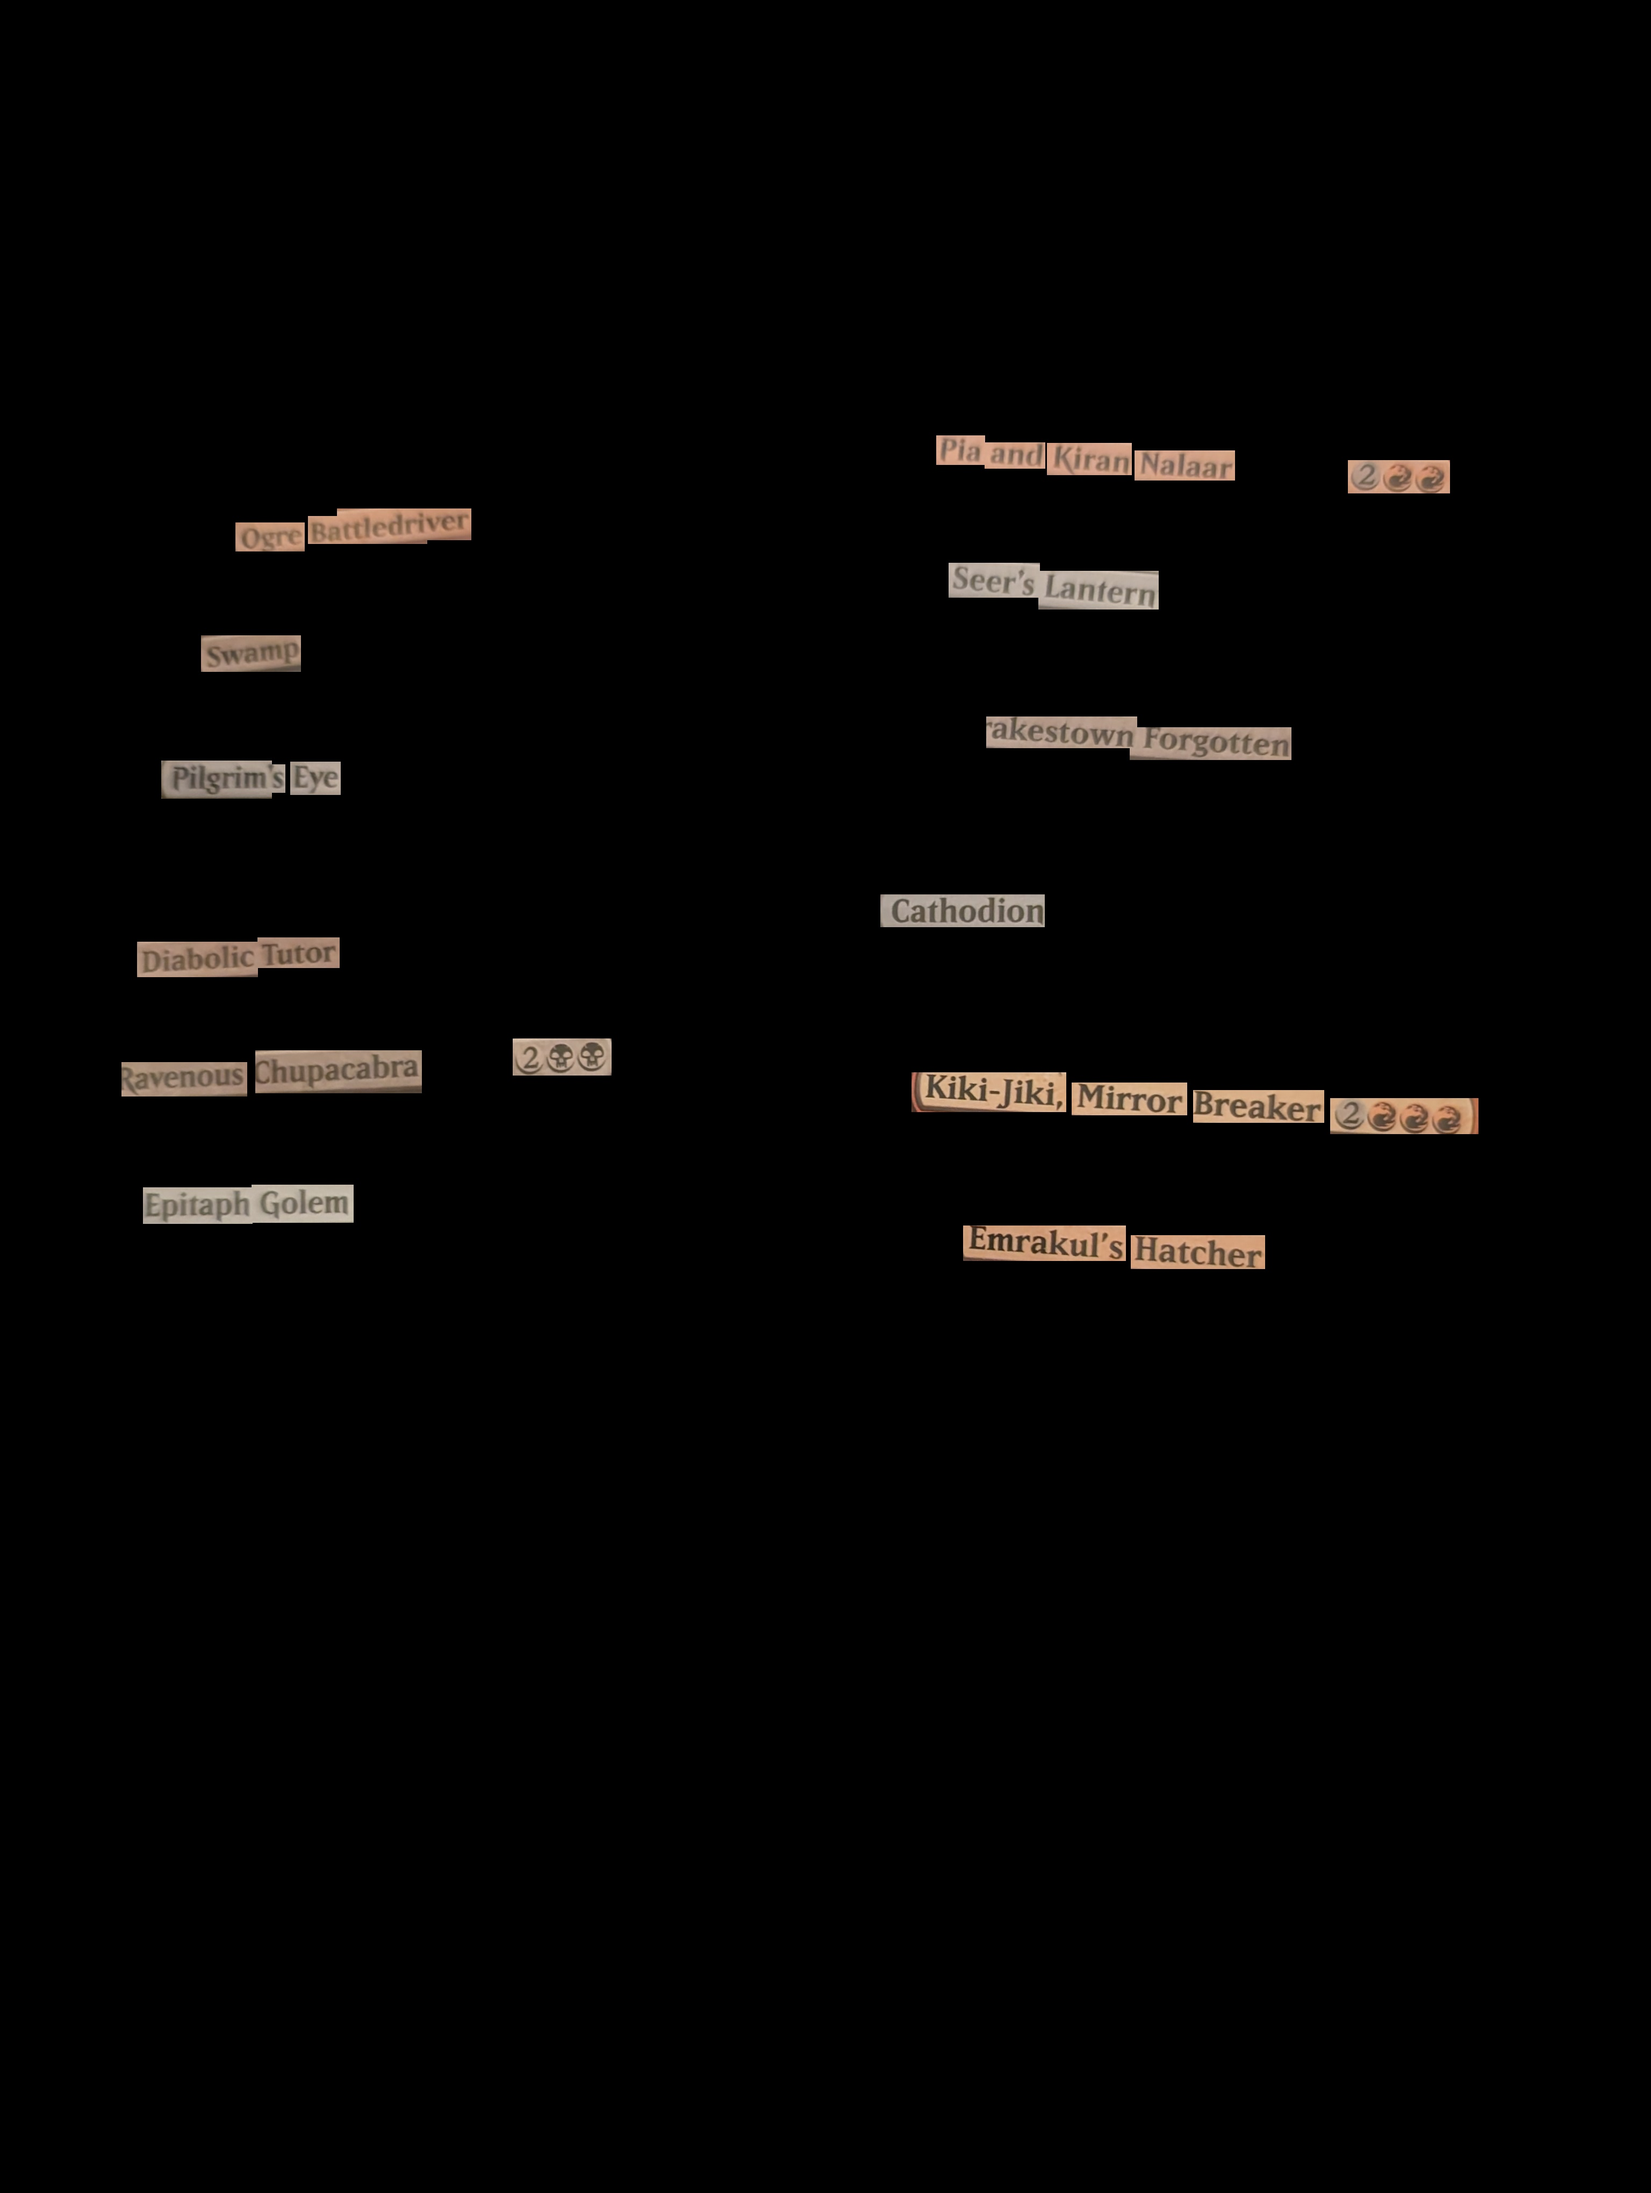
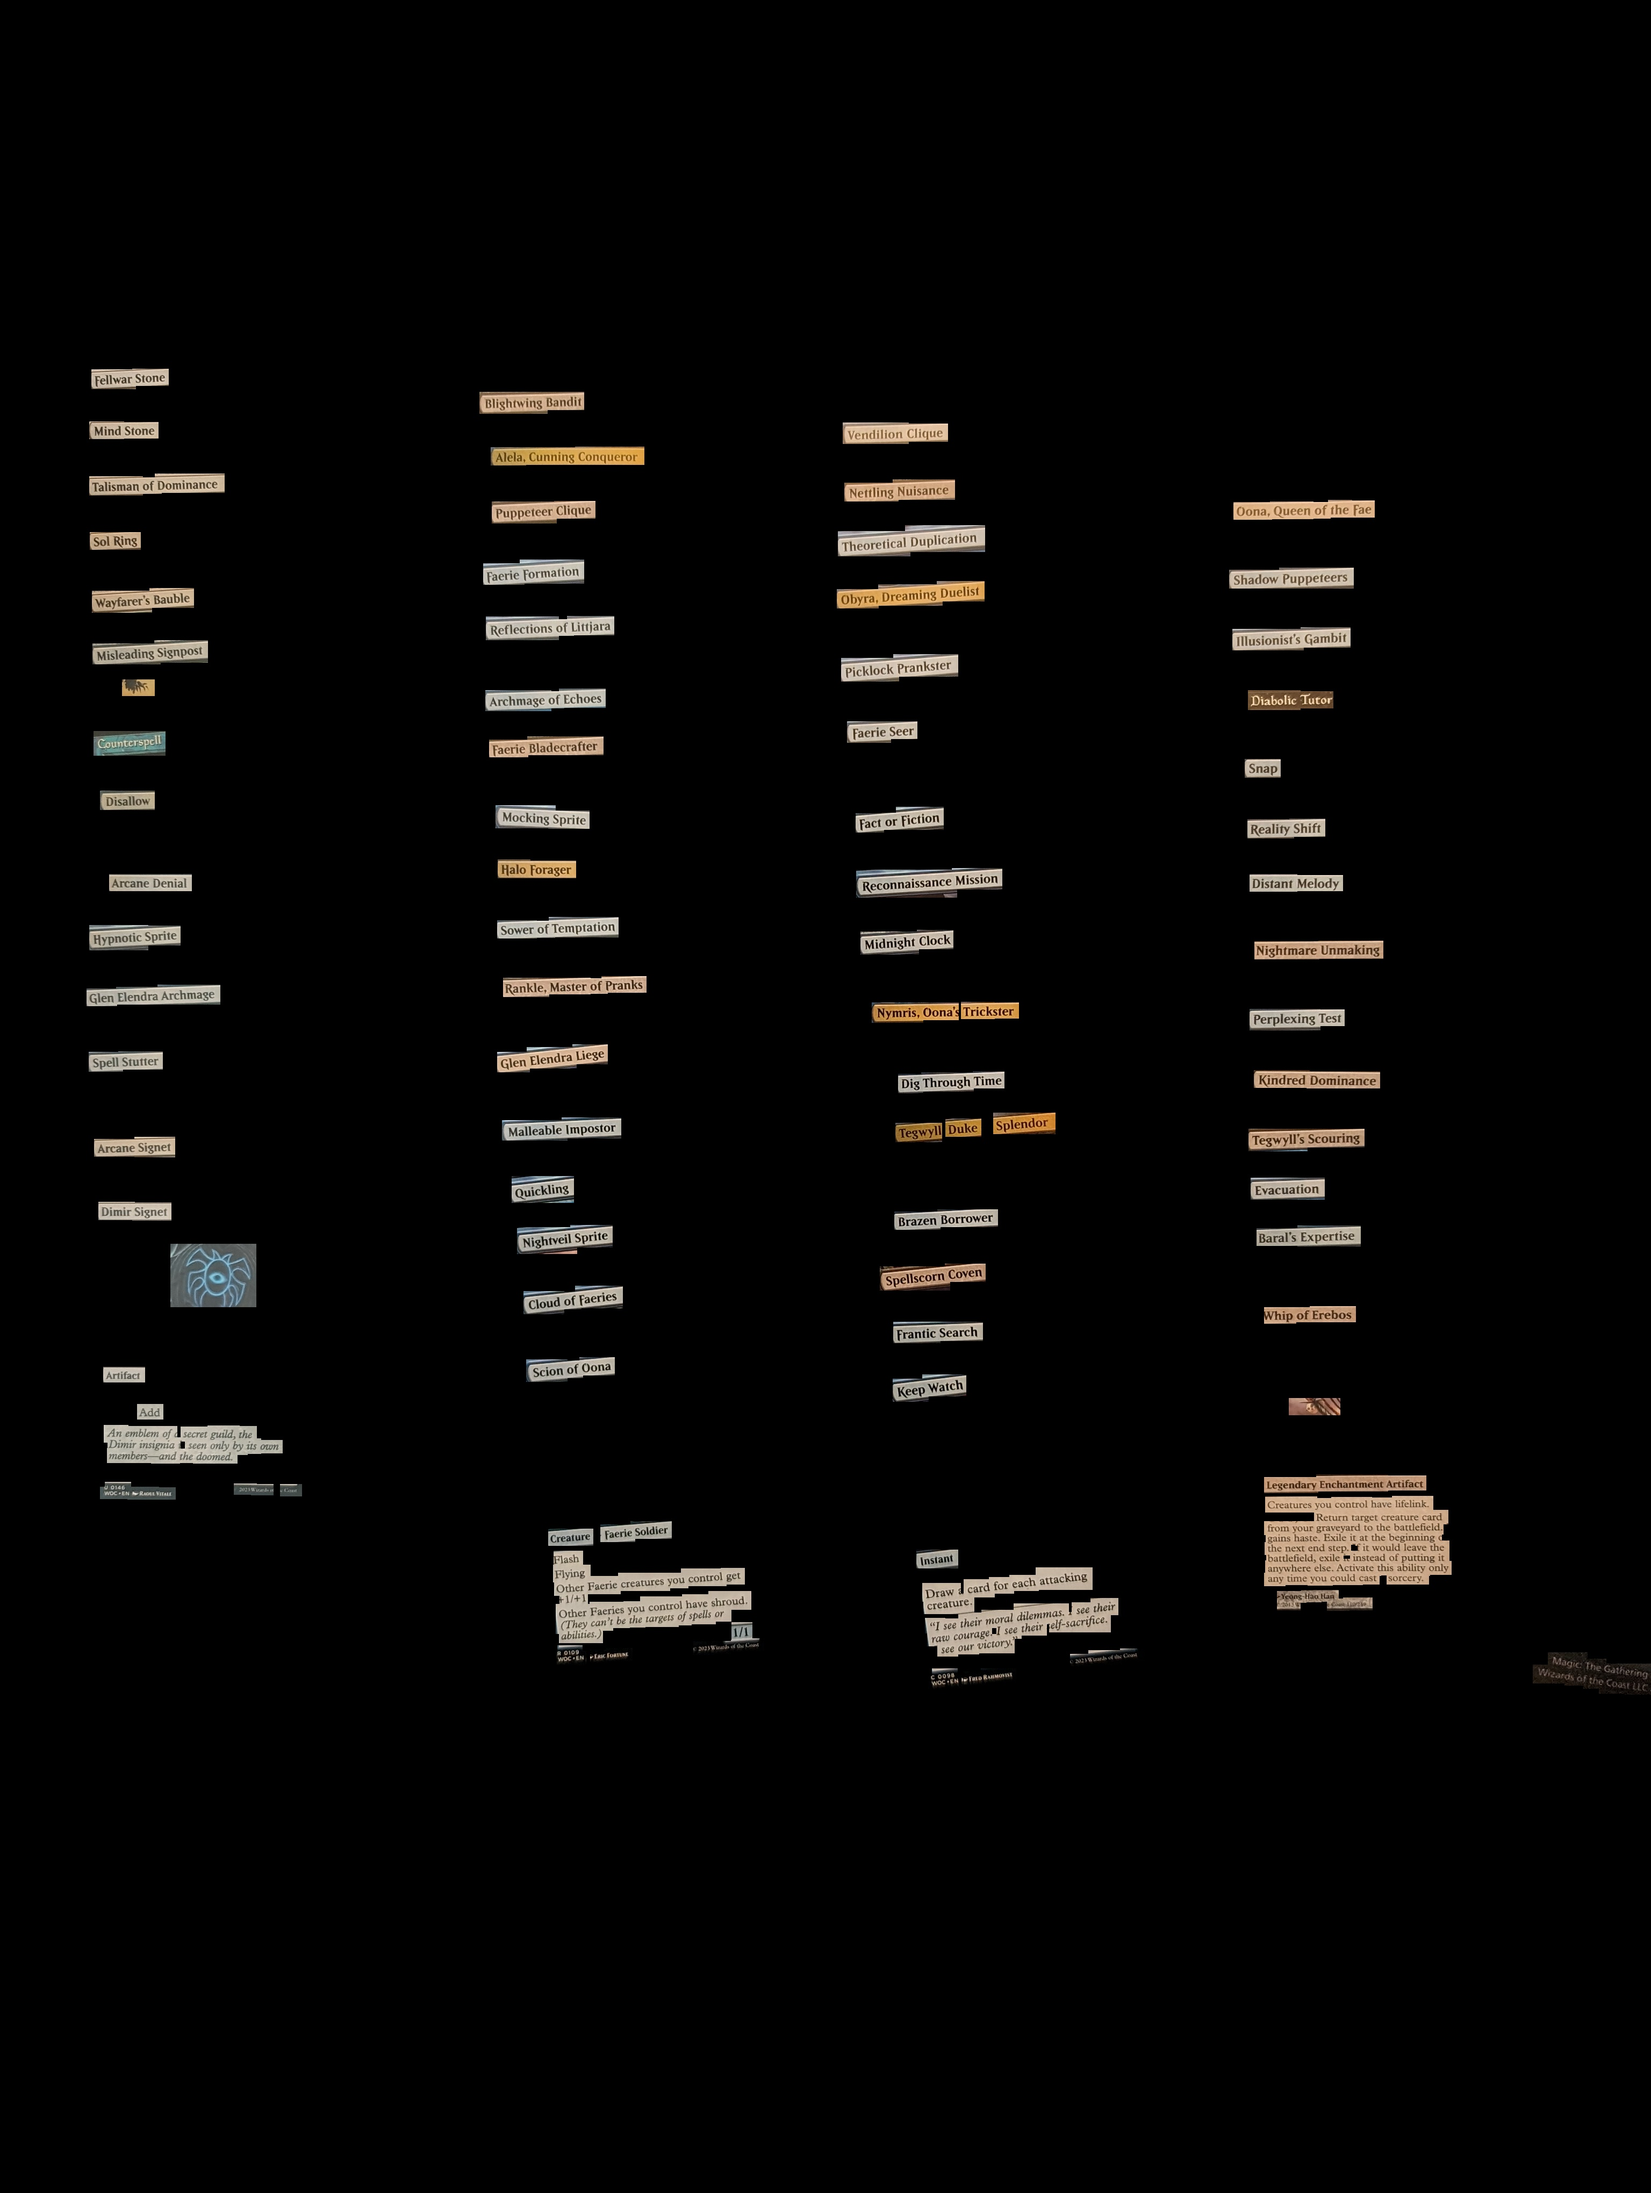
Sharpen and Black and White Merge Patch
- created new function called "find_good_thresh" that will auto select average between highest and lowest extreme pixel values.
- added a sharpening of cropped black and white image
- slightly refractored variable names to reflect actual changes to the image.

diff --git a/textdetector/textdetector.py b/textdetector/textdetector.py
@@ -240,6 +240,24 @@ def runAccuracyChecker(bestNameListNameOnly, answerList):
     print("Leftover Penalty (leftovercounter, if answer list > result list): " + str(leftovercounter))
     print("Accuracy of Results Against Answer (correct/(correct+incorrect+leftover): " + str(correctcounter/(correctcounter+incorrectcounter+leftovercounter)))
 
+def find_good_thresh(cap):
+    rows, cols = cap.shape
+    string = ""
+    lowest = 500
+    highest = -1
+    for y in range(0, rows):
+        for x in range(0, cols):
+            if cap[y][x] > highest:
+                highest = cap[y][x]
+            if cap[y][x] < lowest:
+                lowest = cap[y][x]
+    
+    int_result = int((int(lowest)+int(highest))/2)
+    print("Lowest: " + str(lowest))
+    print("Highest: " + str(highest))
+    print("(Lowest+Highest)/2: " + str(int_result))
+
+    return(int_result)
 
 if __name__ == "__main__":
     # Read and store arguments
@@ -420,6 +438,7 @@ if __name__ == "__main__":
     bestNameList = [] #for best name list and similarity values
     bestNameListNameOnly = []
     counter = 0
+    kernel = np.array([[0, -1, 0], [-1, 5, -1], [0, -1, 0]]) 
     for b in bbox:
         counter += 1
         print(counter, b)
@@ -446,17 +465,24 @@ if __name__ == "__main__":
 
         #saving variations of frames in rotations
         counter2 = 0
-        rotatelist = [4,3,2,1,0,-1,-2,-3,-4]
+        rotatelist = [6,5,4,3,2,1,0,-1,-2,-3,-4,-5,-6]
         
-        # Grayscale coding here
+        # Grayscale/BnW coding and then sharpen here
         masked3_initial_grayscale = cv.imread(path2, cv.IMREAD_GRAYSCALE)
-        thresh, masked3_initial_grayscale = cv.threshold(masked3_initial_grayscale, 127, 255, cv.THRESH_BINARY) #thresh is a dummy value
-        masked3_inital_grayscale = cv.merge((masked3_initial_grayscale, masked3_initial_grayscale, masked3_initial_grayscale))
-        path2grayscale = ".\\box_images\\box"+str(counter)+"_"+"grayscale"+".jpg"
-        cv.imwrite(path2grayscale, masked3_initial_grayscale)
+        thresh, masked3_black_and_white = cv.threshold(masked3_initial_grayscale, find_good_thresh(masked3_initial_grayscale), 255, cv.THRESH_BINARY) #thresh is a dummy value
+        masked3_black_and_white = cv.merge((masked3_black_and_white, masked3_black_and_white, masked3_black_and_white))
+        
+        # Create the sharpening kernel (already initialized)
+        #kernel = np.array([[0, -1, 0], [-1, 5, -1], [0, -1, 0]]) 
+        # Sharpen the image 
+        sharpened_black_and_white = cv.filter2D(masked3_black_and_white, -1, kernel) 
+
+        path_black_white = ".\\box_images\\box"+str(counter)+"_"+"sharpen-BnW"+".jpg"
+        #cv.imwrite(path_black_white, masked3_black_and_white)
+        cv.imwrite(path_black_white, sharpened_black_and_white)
 
         # Rotational coding here
-        masked3_copy = Image.open(path2grayscale)
+        masked3_copy = Image.open(path_black_white)
         masked3_rotated = None
         maxSimilarity = 0.0
         bestOutput = mtg_autocorrect("", V, name_freq_dict, probs)

diff --git a/textdetector/test.py b/textdetector/test.py
@@ -55,9 +55,34 @@ parser.add_argument('--showtext', action='store_true', help="Indicator of whethe
 
 args = parser.parse_args()
 
+def find_good_thresh(cap):
+    rows, cols = cap.shape
+    string = ""
+    lowest = 500
+    highest = -1
+    for y in range(0, rows):
+        for x in range(0, cols):
+            if cap[y][x] > highest:
+                highest = cap[y][x]
+            if cap[y][x] < lowest:
+                lowest = cap[y][x]
+
+    print("Lowest: " + str(lowest))
+    print("Highest: " + str(highest))
+    print("(Lowest+Highest)/2: " + str(int((lowest+highest)/2)))
+
+    return(int((lowest+highest)/2))
 
 cap = cv.imread(args.input, cv.IMREAD_GRAYSCALE)
-thresh, cap = cv.threshold(cap, 127, 255, cv.THRESH_BINARY) #thresh is a dummy value
+
+print(cap)
+print("------------------------")
+print(cap.shape)
+print(find_good_thresh(cap))
+
+
+#thresh, cap = cv.threshold(cap, find_good_thresh(cap), 255, cv.THRESH_BINARY) #thresh is a dummy value
+thresh, cap = cv.threshold(cap, find_good_thresh(cap), 255, cv.THRESH_BINARY) #thresh is a dummy value
 cap = cv.merge((cap,cap,cap)) 
 
 cv.imwrite("test-output.jpg", cap)
